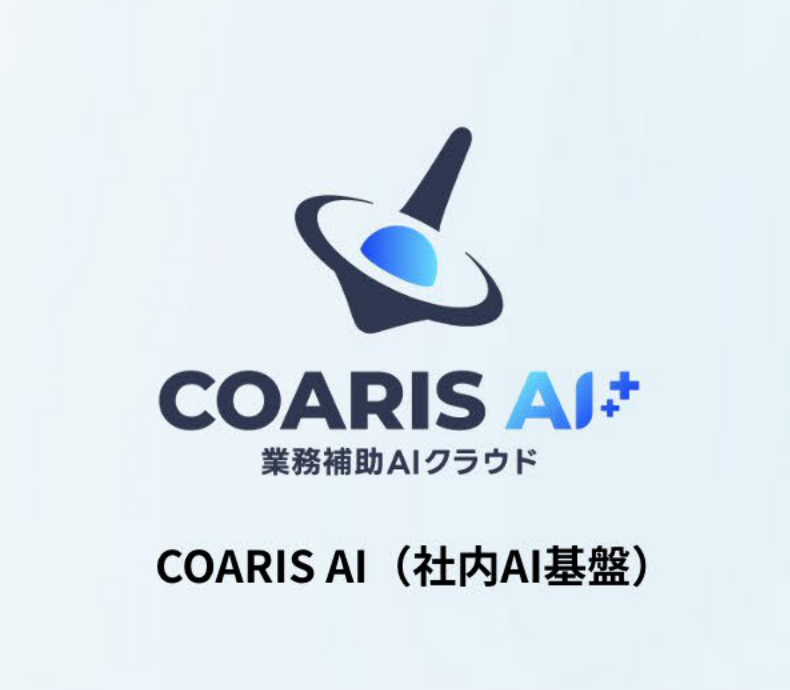
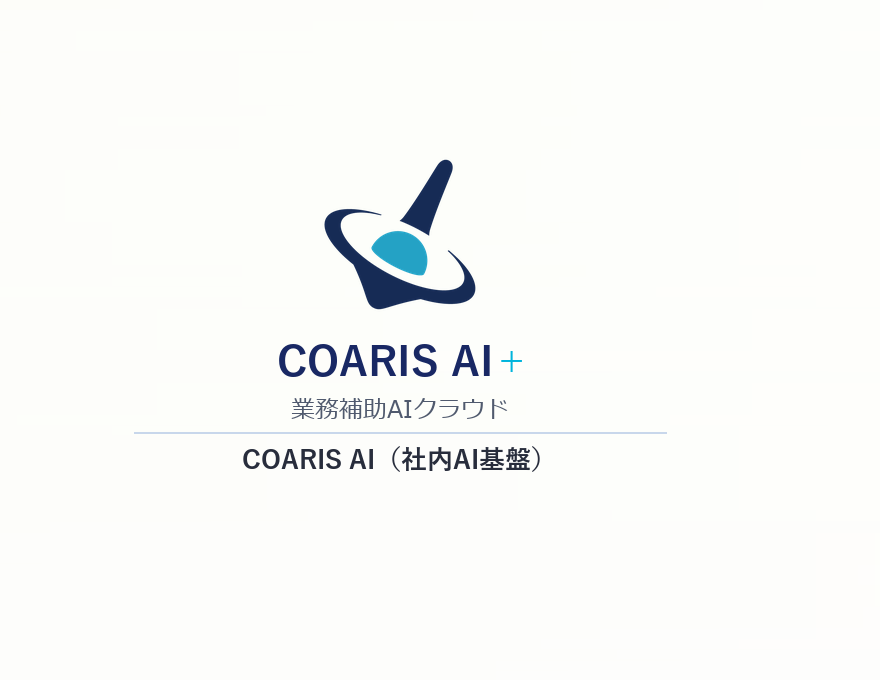
auto: update 2026-06-08 20:36:55

diff --git a/17【岩田さん用株式会社Della Force会社概要資料】/build_page6.py b/17【岩田さん用株式会社Della Force会社概要資料】/build_page6.py
@@ -47,50 +47,43 @@ def item_cx(i): return item_x0(i) + IW//2
 CROP_Y0 = 1080
 CROP_Y1 = 1680   # = CROP_Y0 + IH = 1080 + 600
 
-def paste_original_logo(result_arr, slot_i, orig_cx, threshold=45):
+def paste_original_logo(result_arr, slot_i, cx0, cx1, threshold=45):
     """
-    元画像からロゴを切り抜き、グラデーション背景をマスクしてスロットに合成。
-    threshold高めで白カード部分を除外し、濃い色のロゴのみ抽出。
+    元画像の cx0〜cx1 からロゴを切り抜き、スロット中央に合成。
+    グラデーション背景をマスクして除去し、ロゴのみ上書き。
     """
-    crop_w = IW
-    cx0 = max(0, orig_cx - crop_w//2)
-    cx1 = min(W, cx0 + crop_w)
     actual_w = cx1 - cx0
 
-    # 元画像クロップ（IH=600px、スケール不要）
     orig_crop = arr[CROP_Y0:CROP_Y1, cx0:cx1].astype(np.float32)
     bg_at     = bg_zone[CROP_Y0-BG_Y0:CROP_Y1-BG_Y0, cx0:cx1]
 
-    # ロゴピクセルマスク（背景グラデーションとの差分が閾値以上）
     diff     = np.abs(orig_crop - bg_at).max(axis=2)
     mask_raw = (diff > threshold).astype(np.uint8) * 255
 
-    # 幅不足の場合は中央パディング
-    if actual_w < IW:
-        pad_l = (IW - actual_w) // 2
-        p_img  = np.zeros((IH, IW, 3), dtype=np.float32)
-        p_mask = np.zeros((IH, IW),    dtype=np.uint8)
-        p_img[:, pad_l:pad_l+actual_w]  = orig_crop
-        p_mask[:, pad_l:pad_l+actual_w] = mask_raw
-        orig_crop = p_img
-        mask_raw  = p_mask
+    # スロット内で中央配置（IW - actual_w を左右均等にパディング）
+    pad_l = (IW - actual_w) // 2
+    p_img  = np.zeros((IH, IW, 3), dtype=np.float32)
+    p_mask = np.zeros((IH, IW),    dtype=np.uint8)
+    # actual_w が IW を超える場合はトリム
+    w = min(actual_w, IW - pad_l)
+    p_img[:, pad_l:pad_l+w]  = orig_crop[:, :w]
+    p_mask[:, pad_l:pad_l+w] = mask_raw[:, :w]
 
-    # マスク平滑化（エッジをなめらかに）
-    mask_img = Image.fromarray(mask_raw).filter(ImageFilter.GaussianBlur(1.5))
+    mask_img = Image.fromarray(p_mask).filter(ImageFilter.GaussianBlur(1.5))
     mask_f   = np.array(mask_img, dtype=np.float32)[:, :, np.newaxis] / 255.0
 
-    # スロットに合成（ロゴ部分のみ元画像、背景は新グラデーション）
     dx0  = item_x0(slot_i)
     dy0  = LOGO_ZONE_Y
     dest = result_arr[dy0:dy0+IH, dx0:dx0+IW].astype(np.float32)
-    blended = dest * (1 - mask_f) + orig_crop * mask_f
+    blended = dest * (1 - mask_f) + p_img * mask_f
     result_arr[dy0:dy0+IH, dx0:dx0+IW] = np.clip(blended, 0, 255)
 
-# OCTON（スロット0）: content center x≈1207
-paste_original_logo(result_arr, slot_i=0, orig_cx=1207, threshold=45)
+# OCTON（スロット0）: x=807-1607（800px、center=1207）
+paste_original_logo(result_arr, slot_i=0, cx0=807, cx1=1607, threshold=45)
 
-# SHOGUN（スロット2）: content center x≈2533（アイコン中心）
-paste_original_logo(result_arr, slot_i=2, orig_cx=2533, threshold=45)
+# SHOGUN（スロット2）: x=2304-2936（632px、コンテンツ実範囲）
+# ※ x=2133-2303 にはオリジナルCOARIS AI+テキストが残るため除外
+paste_original_logo(result_arr, slot_i=2, cx0=2304, cx1=2936, threshold=45)
 
 print("OCTON/SHOGUN pasted from original")
 
